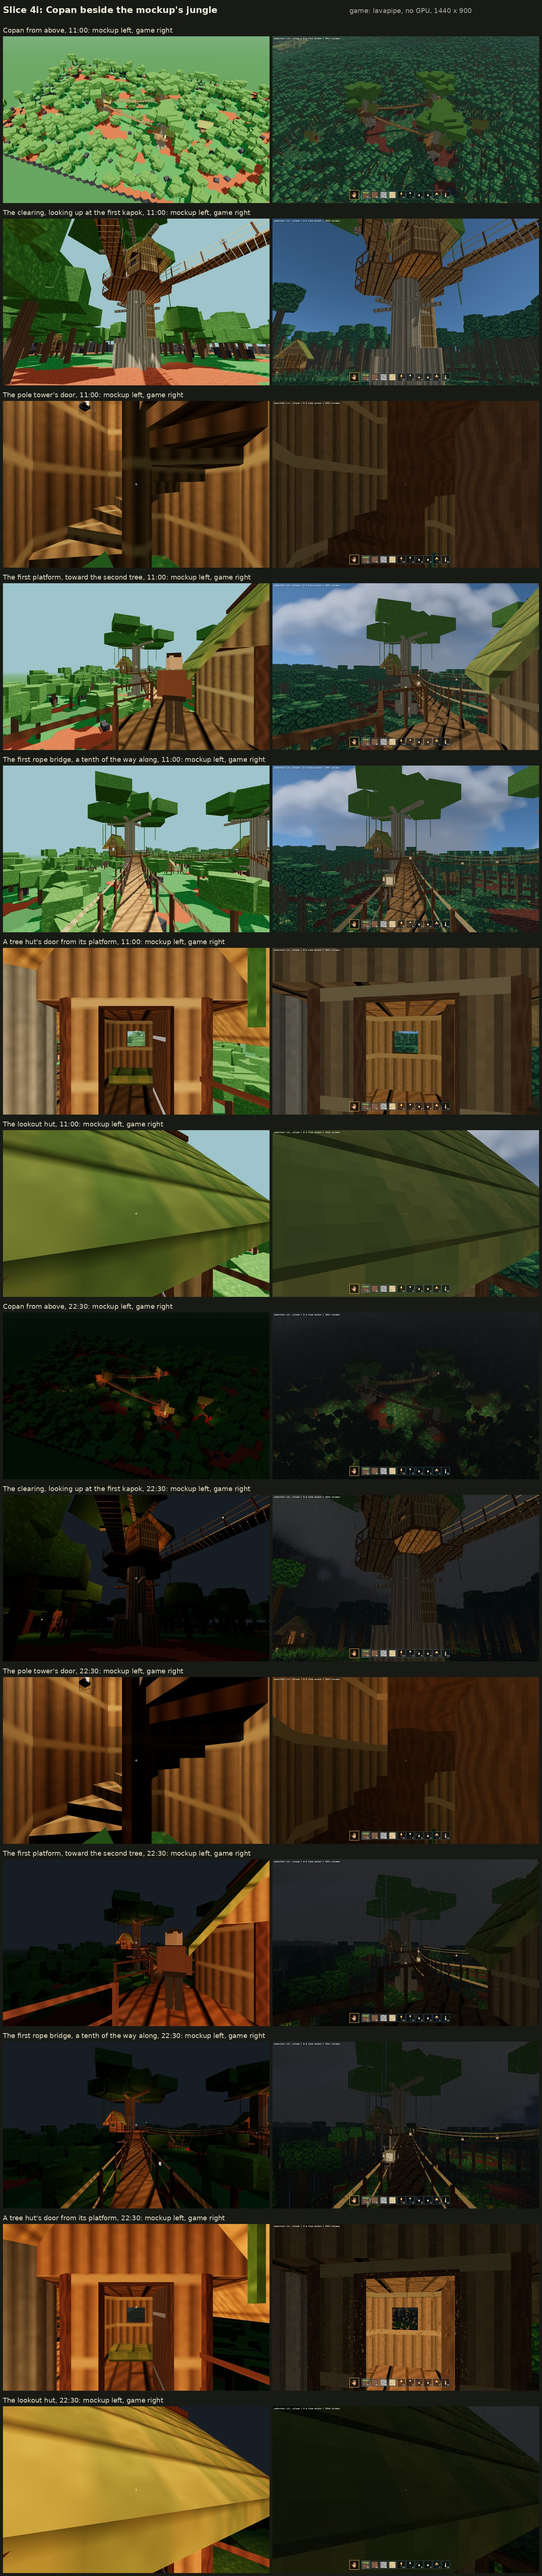
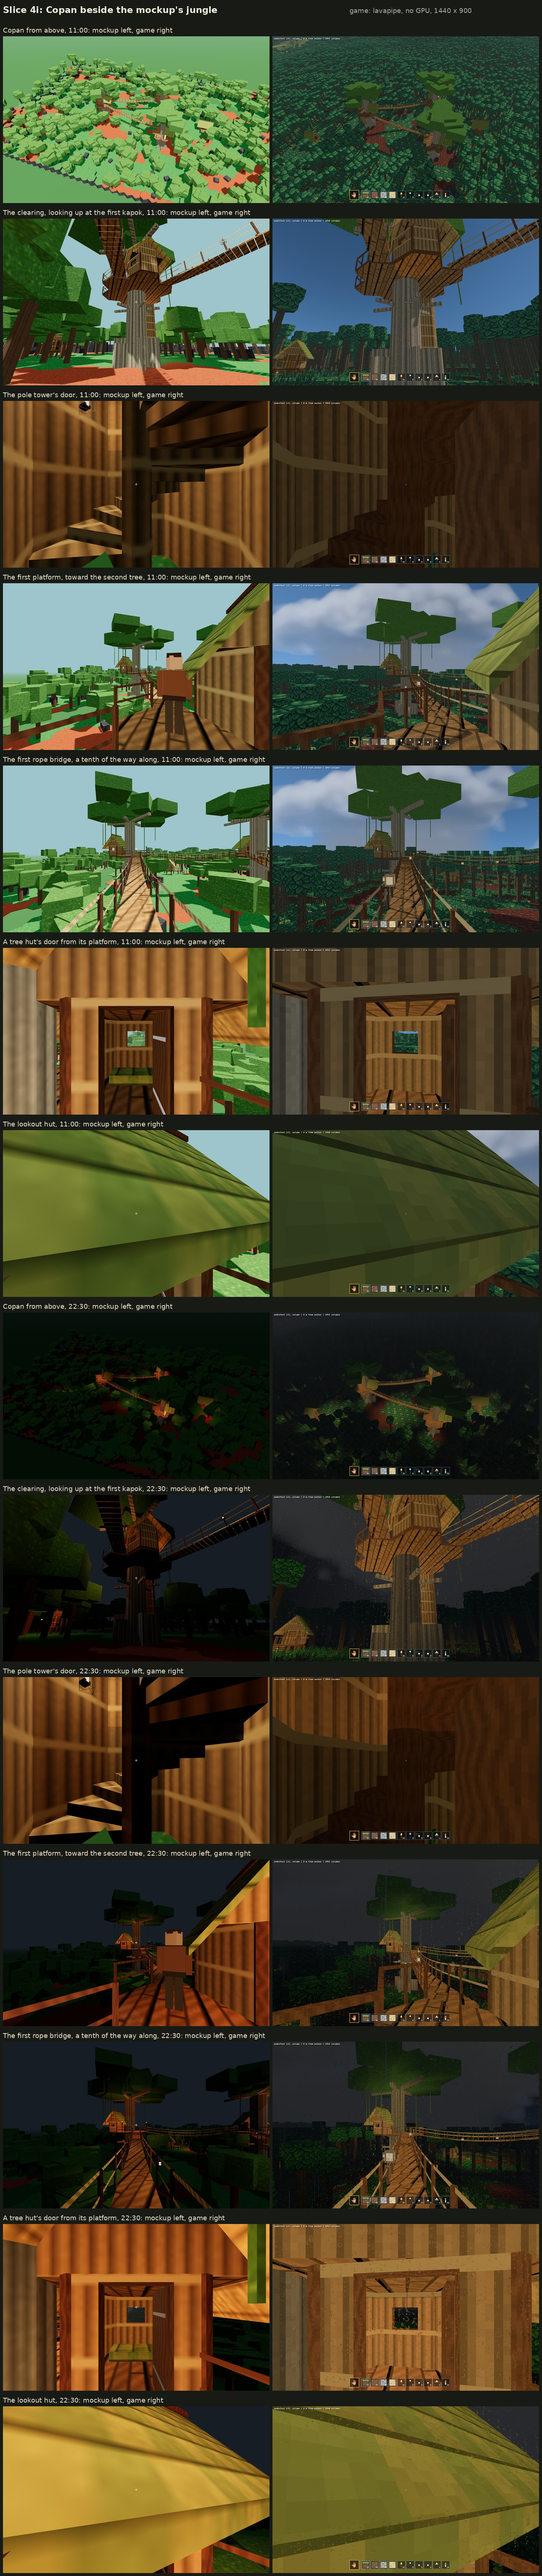
Jungle 4i shots: the night spots retaken with the light baked per vertex
The overview, the clearing, the tree hut and the lookout at 22:30, taken
again now that a town's outside is lit vertex by vertex, so every night
row of the side-by-side is the game as it stands; the README no longer
says the planks stay grey.

Claude-Session: https://claude.ai/code/session_01SztpvFkncDFbmhJsds55PW

diff --git a/docs/screenshots/cities-in-the-world/README.md b/docs/screenshots/cities-in-the-world/README.md
@@ -311,11 +311,11 @@ on the left and the game on the right.
   clearing, the planet's own jungle standing round them.
 - The clearing, the tower's door, the first platform, the first bridge (a
   tenth of the way along its sag), a tree hut's door and the lookout.
-- At 22:30 the platforms' torches and the bridges' lanterns stand and burn,
-  but the planks round them stay grey where the mockup's are warm: a town's
-  pieces take the light field at only the eight corners of each mesh's
-  bounds. Baking the field per vertex is written up as the next step
-  (design, "Finding: the stair towers have no light").
+- At 22:30 the platforms' torches and the bridges' lanterns light the
+  planks, rails, huts and trunks round them, as the mockup's do: the night
+  shots are taken with a town's outside baked from the light field vertex
+  by vertex (below). Before it, the planks stayed grey beside their own
+  torches.
 - Seen and not built: the people, the beds and the sleeping mat
   (furniture and folk), and the mockup's lantern beside every outdoor door.
 
